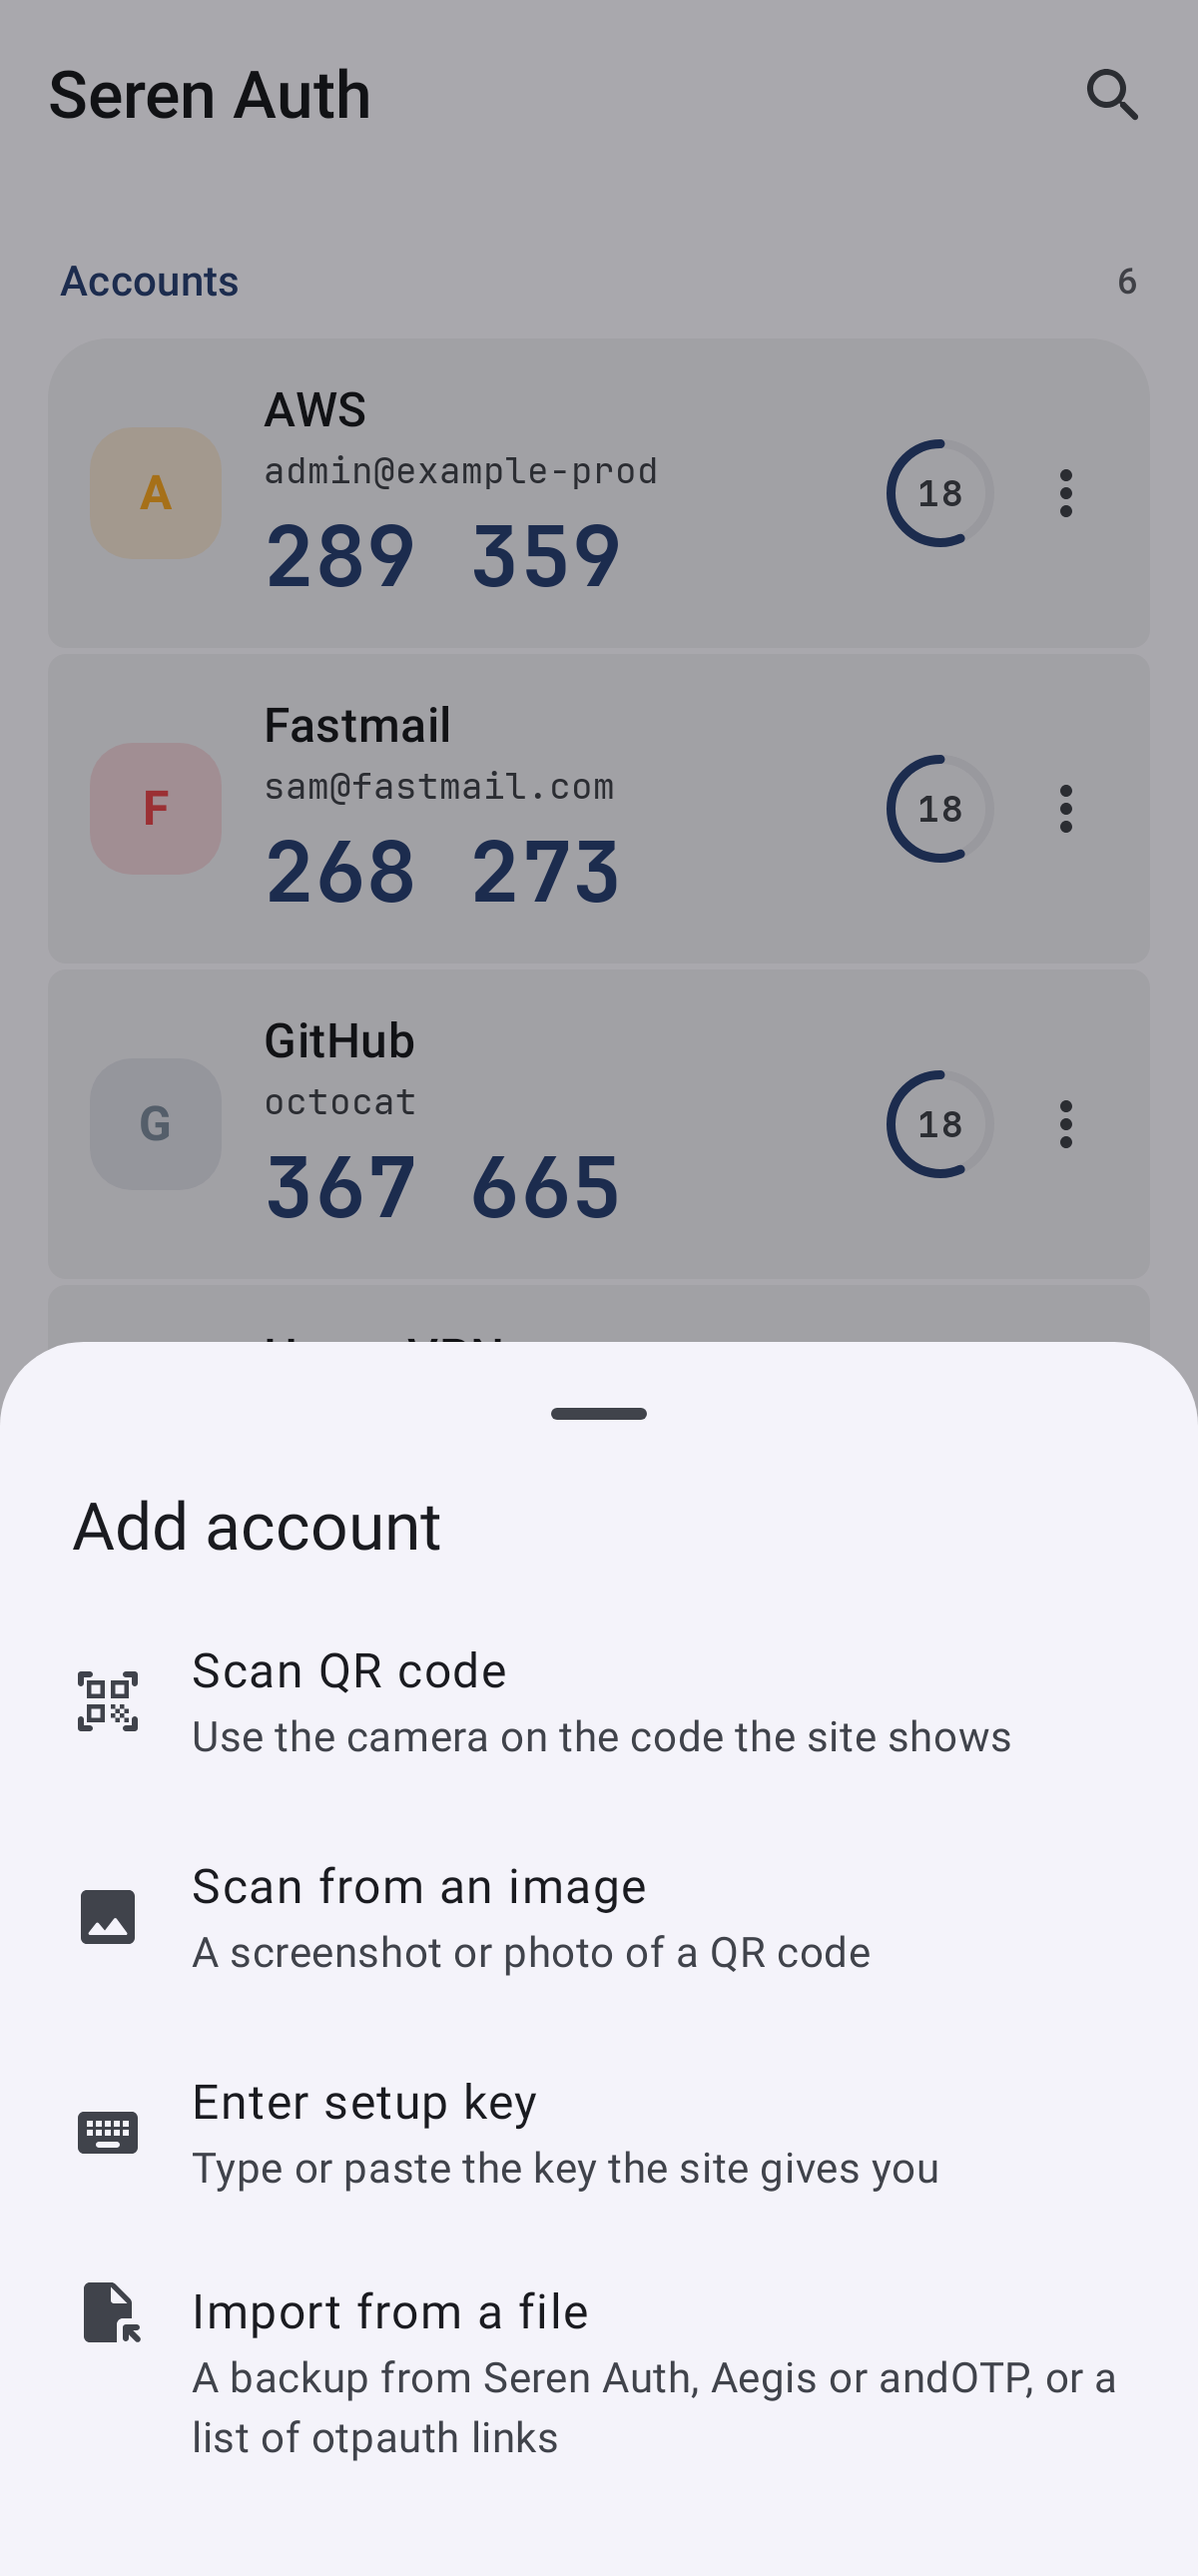
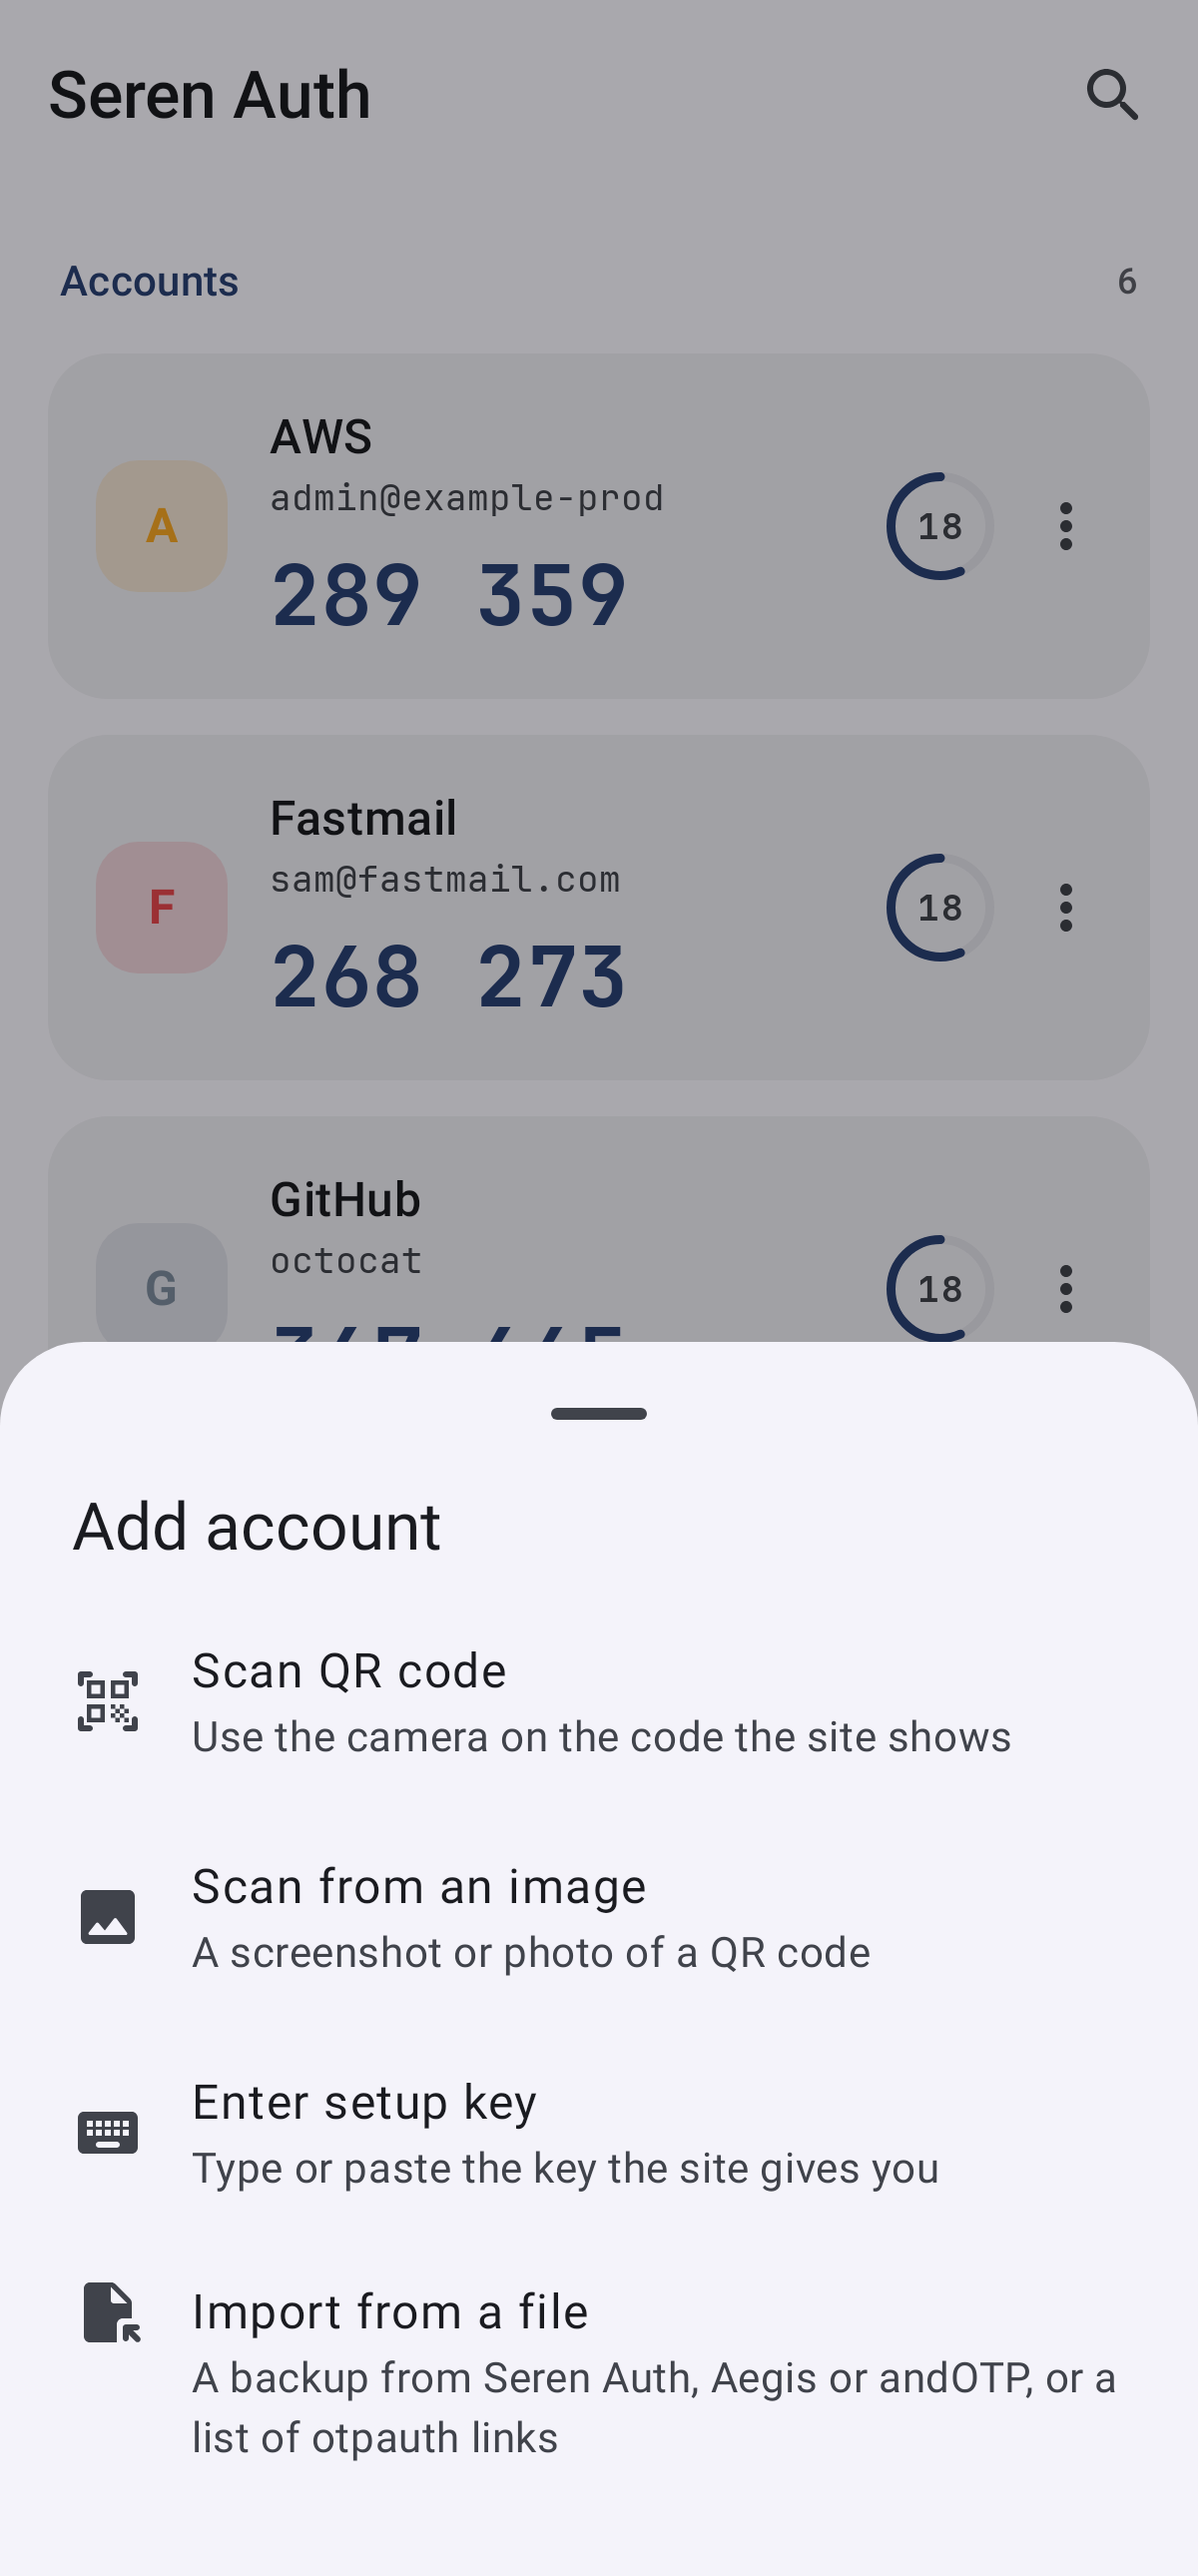
Give Seren Auth's accounts room to breathe
Accounts were grouped tiles 2 dp apart, which suits short list rows but
made the large codes of neighbouring accounts run together. Each account
is now a standalone card, 12 dp from the next, with a little more padding
and space above the code. The brand guide notes the exception.

Claude-Session: https://claude.ai/code/session_01PPkKadhjUn2Fwv2UhUgCaz

diff --git a/auth/src/main/java/wales/tucker/seren/auth/ui/accounts/AccountsTab.kt b/auth/src/main/java/wales/tucker/seren/auth/ui/accounts/AccountsTab.kt
@@ -15,7 +15,7 @@ import androidx.compose.foundation.layout.padding
 import androidx.compose.foundation.layout.statusBars
 import androidx.compose.foundation.layout.width
 import androidx.compose.foundation.lazy.LazyColumn
-import androidx.compose.foundation.lazy.itemsIndexed
+import androidx.compose.foundation.lazy.items
 import androidx.compose.foundation.lazy.rememberLazyListState
 import androidx.compose.foundation.shape.CircleShape
 import androidx.compose.foundation.shape.RoundedCornerShape
@@ -71,7 +71,6 @@ import androidx.compose.ui.draw.clip
 import androidx.compose.ui.focus.FocusRequester
 import androidx.compose.ui.focus.focusRequester
 import androidx.compose.ui.graphics.Color
-import androidx.compose.ui.graphics.Shape
 import androidx.compose.ui.graphics.vector.ImageVector
 import androidx.compose.ui.platform.LocalContext
 import androidx.compose.ui.semantics.contentDescription
@@ -104,7 +103,6 @@ import wales.tucker.seren.core.ui.Avatar
 import wales.tucker.seren.core.ui.EmptyState
 import wales.tucker.seren.core.ui.SectionHeader
 import wales.tucker.seren.core.ui.copyToClipboard
-import wales.tucker.seren.core.ui.groupedShape
 import wales.tucker.seren.core.ui.pillFieldColors
 import wales.tucker.seren.core.ui.theme.MonoFamily
 import wales.tucker.seren.core.ui.theme.MonoSmall
@@ -224,11 +222,10 @@ fun AccountsTab(settings: Settings, actions: AddActions, onEdit: (Long) -> Unit)
                         }
                     } else {
                         item { SectionHeader("Accounts", trailing = shown.size.toString()) }
-                        itemsIndexed(shown, key = { _, a -> a.id }) { index, account ->
+                        items(shown, key = { it.id }) { account ->
                             AccountTile(
                                 account = account,
                                 now = now,
-                                shape = groupedShape(index, shown.size),
                                 hidden = settings.hideCodes && revealedId != account.id,
                                 showNextCode = settings.showNextCode,
                                 onClick = { copy(account) },
@@ -297,7 +294,6 @@ private fun SearchBar(query: String, onQuery: (String) -> Unit, onClose: () -> U
 fun AccountTile(
     account: Account,
     now: Long,
-    shape: Shape,
     hidden: Boolean,
     showNextCode: Boolean,
     onClick: () -> Unit,
@@ -317,12 +313,12 @@ fun AccountTile(
 
     Row(
         modifier = Modifier
-            .padding(horizontal = 16.dp, vertical = 1.dp)
+            .padding(horizontal = 16.dp, vertical = 6.dp)
             .fillMaxWidth()
-            .clip(shape)
+            .clip(TileShape)
             .background(MaterialTheme.colorScheme.surfaceContainer)
             .clickable(onClickLabel = "Copy code", onClick = onClick)
-            .padding(start = 14.dp, end = 4.dp, top = 12.dp, bottom = 12.dp),
+            .padding(start = 16.dp, end = 4.dp, top = 16.dp, bottom = 16.dp),
         verticalAlignment = Alignment.CenterVertically,
     ) {
         Avatar(token.title, accentColor(account.color))
@@ -344,7 +340,7 @@ fun AccountTile(
                     overflow = TextOverflow.Ellipsis,
                 )
             }
-            Spacer(Modifier.height(2.dp))
+            Spacer(Modifier.height(6.dp))
             Text(
                 if (hidden) hiddenCode(token.digits) else formatCode(code),
                 fontFamily = MonoFamily,
@@ -387,6 +383,12 @@ fun AccountTile(
         }
     }
 }
+
+/**
+ * Accounts are standalone cards 12 dp apart rather than a grouped list: each one is tall and led by
+ * a large code, and tight 2 dp gaps made neighbouring codes run together.
+ */
+private val TileShape = RoundedCornerShape(20.dp)
 
 /** The next code appears under the current one once this little time is left. */
 const val NEXT_CODE_MILLIS = 7_000L

diff --git a/docs/BRAND.md b/docs/BRAND.md
@@ -539,7 +539,8 @@ The third app, Seren Auth (the `auth` module):
 - **Icon:** the shared gradient; the frame becomes a shield; the periwinkle glyph is a countdown
   dial three quarters round; the mint accent is the cursor, upright in the middle of the dial.
 - **Tabs:** Accounts, Settings.
-- **Lists:** accounts as grouped tiles with an accent avatar (the same service always gets the same
+- **Lists:** accounts as standalone cards (20 dp corners, 12 dp apart) rather than grouped tiles,
+  because each is tall and led by a large code that needs space around it; each has an accent avatar (the same service always gets the same
   accent until the user picks another), the account name in `MonoSmall` and the code in large mono
   digits in `primary`, grouped in two halves ("123 456") so it can be read out. A countdown ring with
   the seconds left sits on the right; in the last five seconds the code and ring turn to
